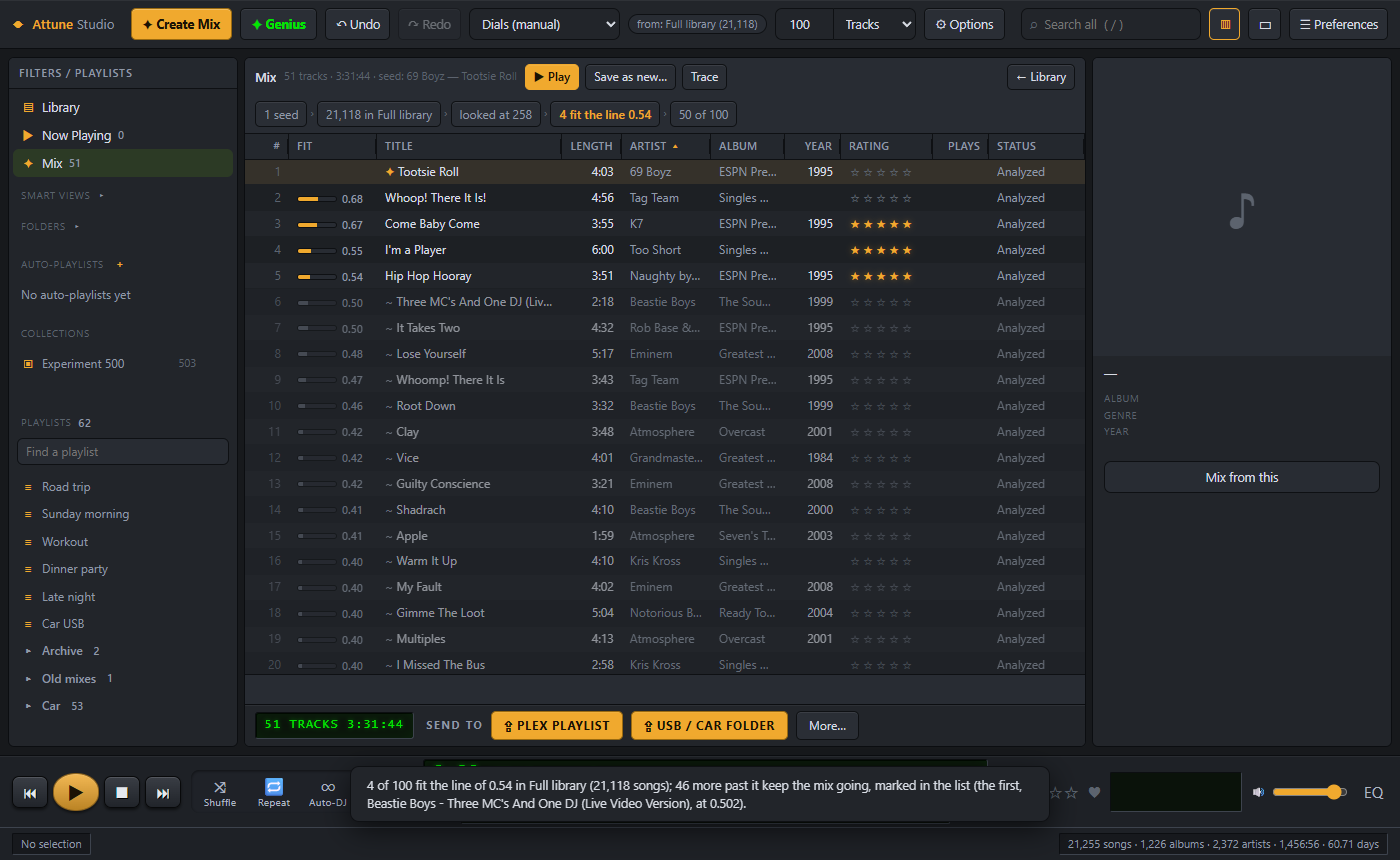
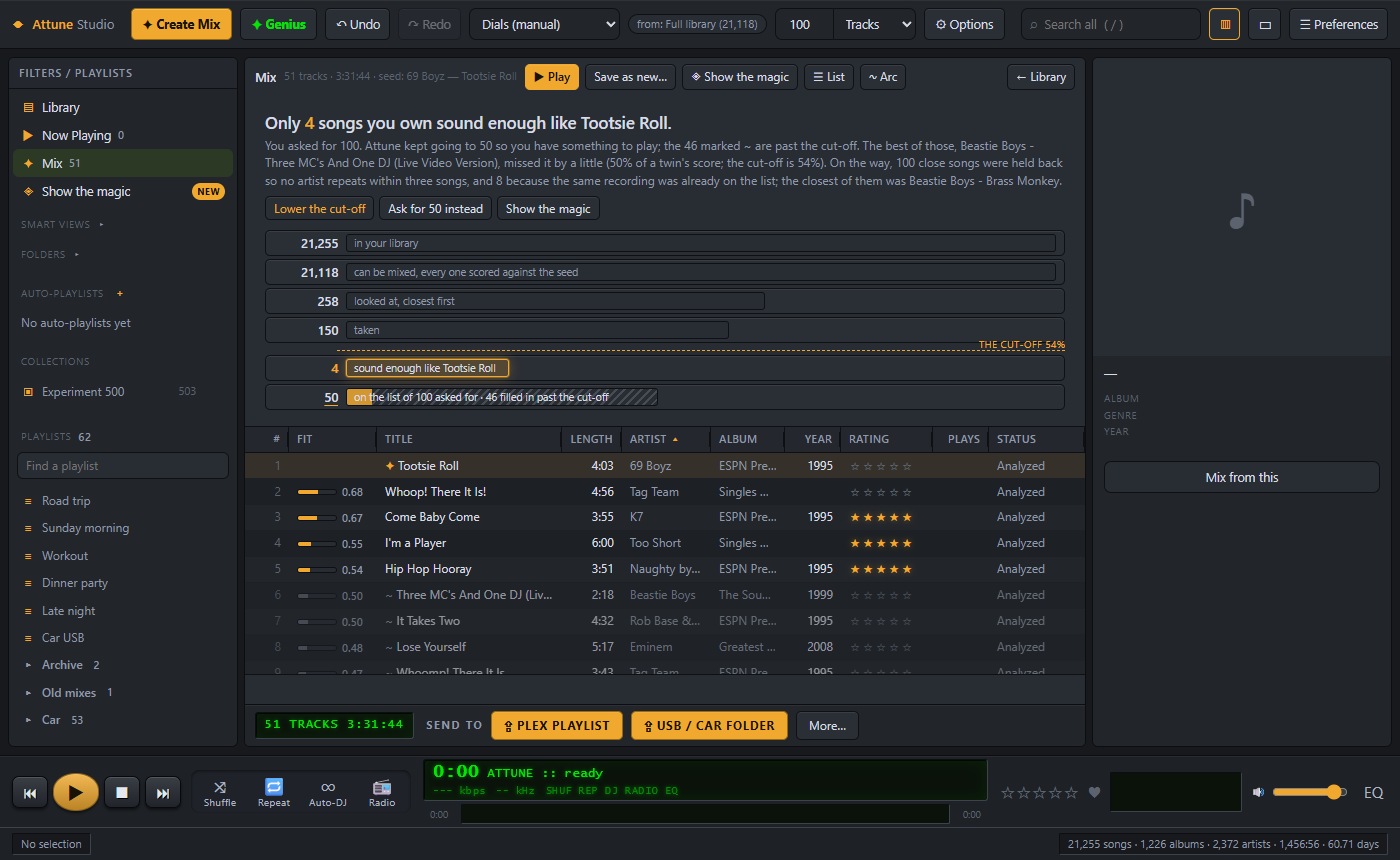
README pictures of the card, the reveal and Show the magic
Retaken on Joe's ask the same afternoon, from the running app on the real library with
the scrub clean (gui-audit/capture_magic_shots.py, which replaces the morning's
capture_trace_shots.py): a fresh mix with the card over the sieve, the reveal two seconds
in, the Show the magic page with the hill, Why this pick in words, What changed after one
Less Like This, and a Blend. The two pictures of the drawer (trace-path, trace-left) are
retired; the feature bullet says what the window does now.

Assisted-by: Claude Code

diff --git a/README.md b/README.md
@@ -106,11 +106,15 @@ The click-by-click guide, including getting a mix onto a USB stick and into Plex
   **USB / car folder**, one click each, and **More...** for playlist files. What you see is
   exactly what you get.
 - **Browse and play.** Search, album and folder views, album art, ratings, loved tracks, tags.
-- **See how a mix was made.** A strip above the list reads the stages the engine ran, with
-  the one that decided the list lit; a **Fit** column gives each song's fit; **Why this
-  pick** gives the numbers behind one song; the **Trace** drawer lists what was left out
-  and why, and what the last change kept, dropped and added. All of it from the engine's
-  own record, none of it written by a model.
+- **See how a mix was made, in words.** A card above the list says what decided it ("Only
+  9 songs you own sound enough like Sandstorm; the 41 marked ~ are past the cut-off") with
+  the controls that change it as buttons, over a sieve of the run's numbers; a **Fit**
+  column gives each song's fit; **Why this pick** gives the numbers behind one song;
+  **Show the magic**, under Mix in the side list, holds every song looked at and what
+  happened to it, the list as an arc, what the last change kept and dropped, the runs of a
+  session compared, and "why isn't this song here?". A three-second reveal plays it the
+  moment a list arrives. All of it from the engine's own record, none of it written by a
+  model.
 - **Help on hover.** Rest the pointer on any button, dial or setting and it says what it does.
 - **Copy a mix to a USB stick.** Numbered filenames so a car stereo plays them in order, tags
   intact, either flat or as Artist / Album folders.
@@ -160,13 +164,19 @@ The click-by-click guide, including getting a mix onto a USB stick and into Plex
 </p>
 
 <p align="center">
-  <img alt="A mix with the trace open (the morning build of 2026-10-05): the stages above the list with the fit line lit, the Fit column, and the drawer listing how the list was built. Since that evening the stages are a card in words over a sieve of bars, and the drawer is the Show the magic view" src="docs/img/trace-path.png" width="820">
+  <img alt="A fresh mix: the card over the list says only 4 songs you own sound enough like the seed and why, with the controls that change it as buttons; under it the sieve, the numbers of the run as bars with the deciding one lit; then the list with its Fit column" src="docs/img/trace-main.png" width="820">
 </p>
 <p align="center">
-  <img alt="Why this pick on one song: its place in the ranking, its fit, and what made its score, ingredient by ingredient" src="docs/img/trace-why.png" width="820">
+  <img alt="The reveal, two seconds after the list arrived: the sieve growing stage by stage over the dimmed window, the headline written" src="docs/img/trace-reveal.png" width="820">
 </p>
 <p align="center">
-  <img alt="What changed after one Less Like This: the songs kept, gone and new, named" src="docs/img/trace-changes.png" width="820">
+  <img alt="Show the magic: the card and the sieve, then the hill of every song looked at, closest first, its fit as height, the cut-off dashed, with the songs held back in red" src="docs/img/trace-magic.png" width="820">
+</p>
+<p align="center">
+  <img alt="Why this pick on one song: the 3rd closest song you own to the seed, 55% of what an identical song would score, and what made its score, ingredient by ingredient" src="docs/img/trace-why.png" width="820">
+</p>
+<p align="center">
+  <img alt="What changed after one Less Like This, on the Show the magic page: mostly a new list, 11 of 51 stayed, the songs gone and new named" src="docs/img/trace-changes.png" width="820">
 </p>
 <p align="center">
   <img alt="Hover help: resting the pointer on Auto-DJ explains what it does" src="docs/img/hover-help.png" width="820">
